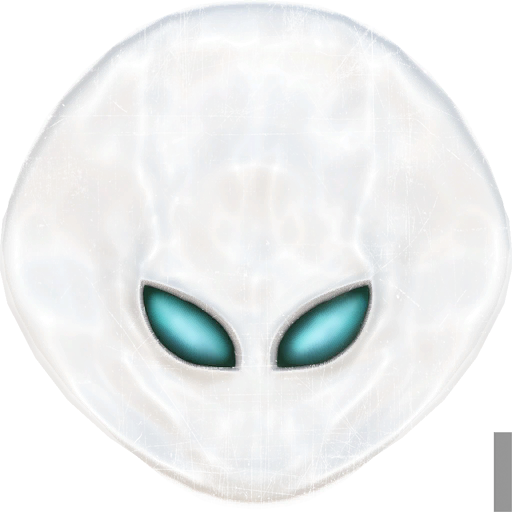
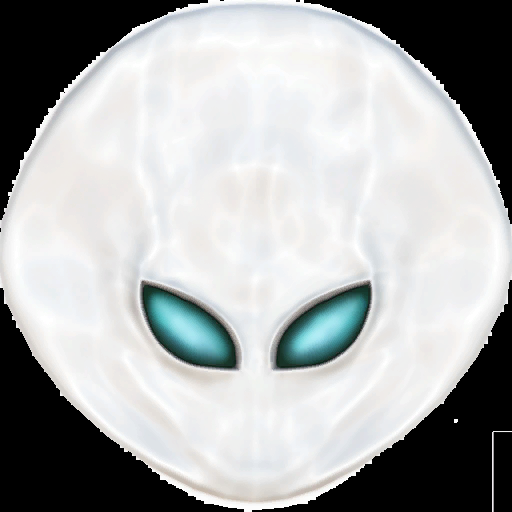
new gltf model better done

diff --git a/public/js/mask.js b/public/js/mask.js
@@ -3,7 +3,6 @@ import { GLTFLoader } from "https://unpkg.com/three@0.113.2/examples/jsm/loaders
 import MaskControls from "./MaskControls.js";
 
 const loader = new GLTFLoader().setPath("models/");
-const textures = new THREE.TextureLoader().setPath("models/");
 const canvas = document.getElementById("sim");
 const renderer = new THREE.WebGLRenderer({ 
     canvas,
@@ -53,10 +52,6 @@ function render() {
   
 loader.load("msk_alienware.gltf", gltf => {
     const scen = gltf.scene;
-    const mesh = scen.children[0].children[0];
-    const df = textures.load("alienware_df.png", () => render()), nm = textures.load("alienware_nm.png", () => render()), mc = textures.load("matcap_plastic_df.png", () => render());
-    df.flipY = false, nm.flipY = false, mc.flipY = false;
-    mesh.material = new THREE.MeshMatcapMaterial({ map: df, bumpMap: nm, bumpScale: 1, matcap: mc });
     scen.scale.set(5, 5, 5);
     scene.add(scen);
     const controls = new MaskControls(camera, canvas, scen);
